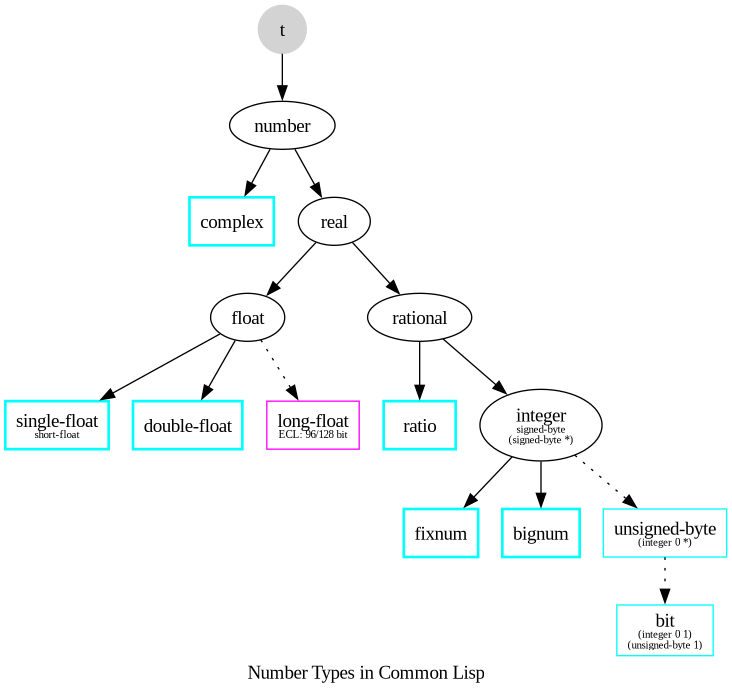
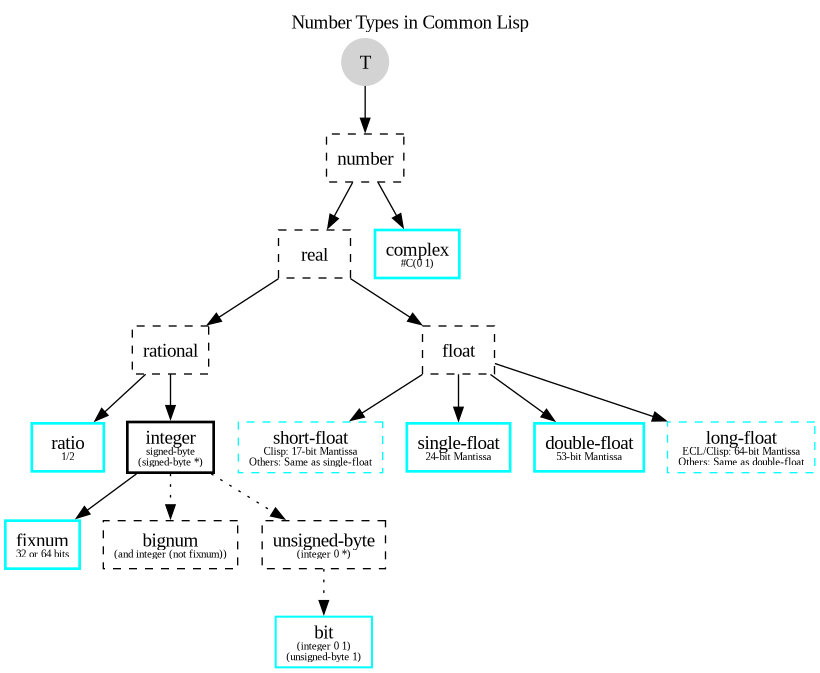
strings: add type hierarchy diagram

diff --git a/strings.md b/strings.md
@@ -2,12 +2,20 @@
 title: Strings
 ---
 
+<!-- epub-exclude-start -->
+<div style="text-align: center">
+    <img src="strings-and-chars.png" alt="String and Character Types in Common Lisp"/>
+</div>
+<!-- epub-exclude-end -->
+
+*Solid nodes are concrete types, while dashed ones are type aliases.*
+
 The most important thing to know about strings in Common Lisp is probably that
 they are arrays and thus also sequences. This implies that all concepts that are
 applicable to arrays and sequences also apply to strings. If you can't find a
 particular string function, make sure you've also searched for the more general
-[array or sequence functions](http://www.gigamonkeys.com/book/collections.html). We'll only cover a fraction of what can be done
-with and to strings here.
+[array or sequence functions](http://www.gigamonkeys.com/book/collections.html).
+We'll only cover a fraction of what can be done with and to strings here.
 
 ASDF3, which is included with almost all Common Lisp implementations,
 includes

diff --git a/numbers.md b/numbers.md
@@ -17,7 +17,7 @@ Some sources:
 </div>
 <!-- epub-exclude-end -->
 
-*Types in bold, cyan boxes are the ones you will typically use.*
+*Types in bold, solid boxes are the ones you will typically use.*
 
 ## Introduction
 
